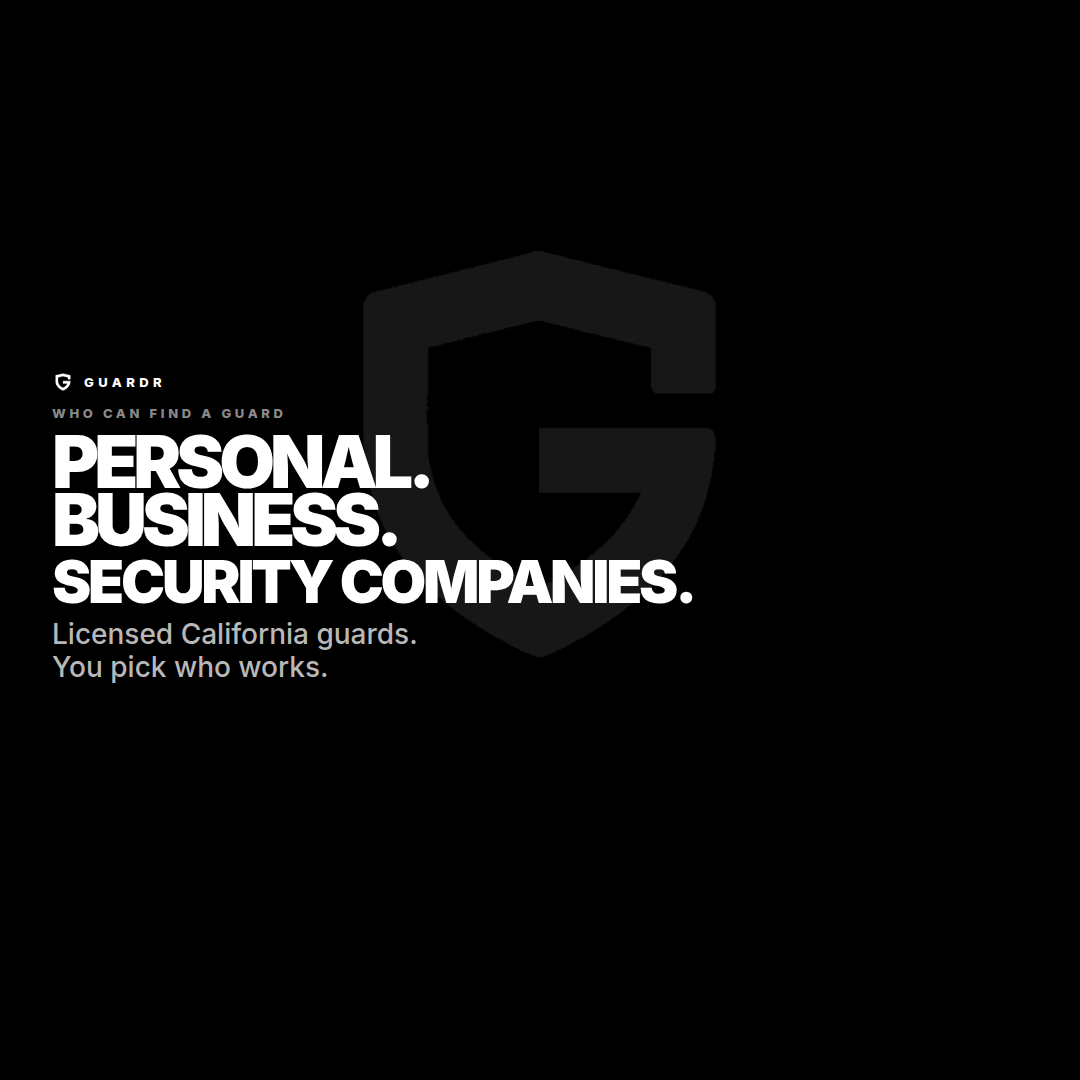
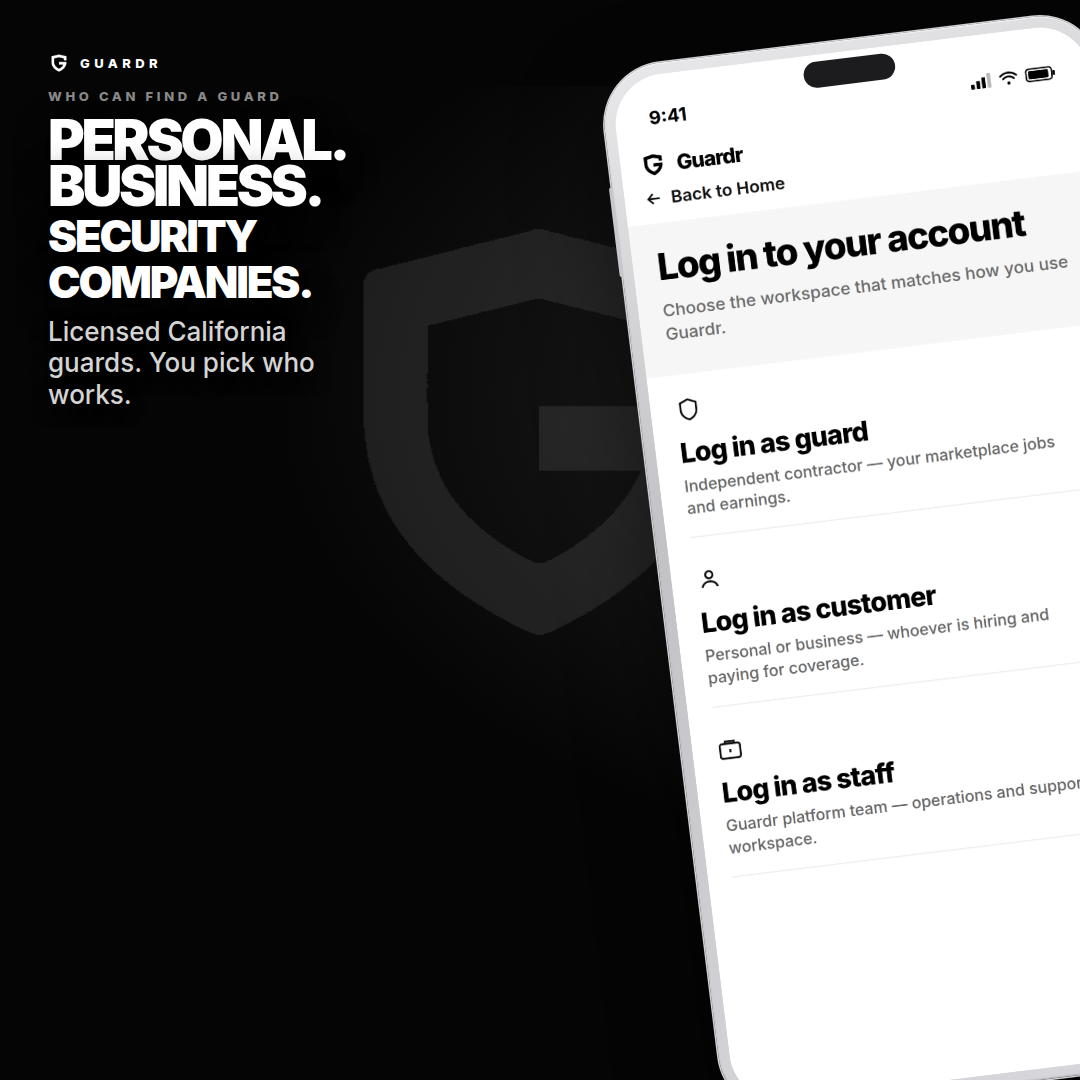
Put the sign-in page on the who-can-find-a-guard promo
The client cover and matching IG/story/landscape posts now show the
Log in to your account screen in the phone — guard, customer, and staff —
in front of PERSONAL. BUSINESS. SECURITY COMPANIES.

diff --git a/docs/marketing/promo-posts-today.md b/docs/marketing/promo-posts-today.md
@@ -13,7 +13,7 @@ Re-render carousels only: `node scripts/render-promo-posts.mjs --carousel`
 
 [`instagram/ig-who-finds.png`](../../assets/marketing/posts/instagram/ig-who-finds.png)
 
-**PERSONAL. BUSINESS. SECURITY COMPANIES.**
+Sign-in page on the phone. **PERSONAL. BUSINESS. SECURITY COMPANIES.**
 
 **Caption:** Personal. Business. Security companies. Find licensed California guards — you pick who works.
 
@@ -33,11 +33,11 @@ Two slideshows. Upload in order as an Instagram carousel (square). Each phone sl
 
 ### For clients — `instagram/carousel-clients/`
 
-Opens on **who can hire**, not the tagline. Ending cover is still Anytime. Anywhere.
+Opens on **who can hire**, with the sign-in page on the phone. Ending cover is still Anytime. Anywhere.
 
 | # | File | Screen | Line |
 |---|---|---|---|
-| 1 Cover | [`00-cover.png`](../../assets/marketing/posts/instagram/carousel-clients/00-cover.png) | — | PERSONAL. BUSINESS. SECURITY COMPANIES. |
+| 1 Cover | [`00-cover.png`](../../assets/marketing/posts/instagram/carousel-clients/00-cover.png) | Sign in | PERSONAL. BUSINESS. SECURITY COMPANIES. |
 | 2 | [`01-tonight.png`](../../assets/marketing/posts/instagram/carousel-clients/01-tonight.png) | Map | NEED A GUARD TONIGHT? |
 | 3 | [`02-post-pick.png`](../../assets/marketing/posts/instagram/carousel-clients/02-post-pick.png) | Jobs | POST A JOB. PICK A GUARD. |
 | 4 | [`03-chat.png`](../../assets/marketing/posts/instagram/carousel-clients/03-chat.png) | Chat | TALK TO WHO APPLIES. |

diff --git a/assets/marketing/posts/README.md b/assets/marketing/posts/README.md
@@ -2,7 +2,7 @@
 
 Ready-to-upload social pictures.
 
-- **Start here:** `instagram/ig-who-finds.png` — PERSONAL. BUSINESS. SECURITY COMPANIES. (who can find a guard)
+- **Start here:** `instagram/ig-who-finds.png` — PERSONAL. BUSINESS. SECURITY COMPANIES. with the sign-in page on the phone
 - **Carousels (post these):** `instagram/carousel-clients/` opens on that same who-can-hire cover, then three different app screens, then Anytime. Anywhere. on the ending cover. `instagram/carousel-guards/` still opens Anytime. Anywhere.
 - **Phone pack:** `instagram/ig-marketplace.png` (YOU PICK WHO WORKS) plus `ig-tonight-map`, `ig-see-nearby`, `ig-no-dispatcher`, `ig-post-pick`, `ig-your-site`, `ig-open-call`, `ig-apply`, `ig-two-live`
 - **Captions:** [`docs/marketing/promo-posts-today.md`](../../../docs/marketing/promo-posts-today.md)
